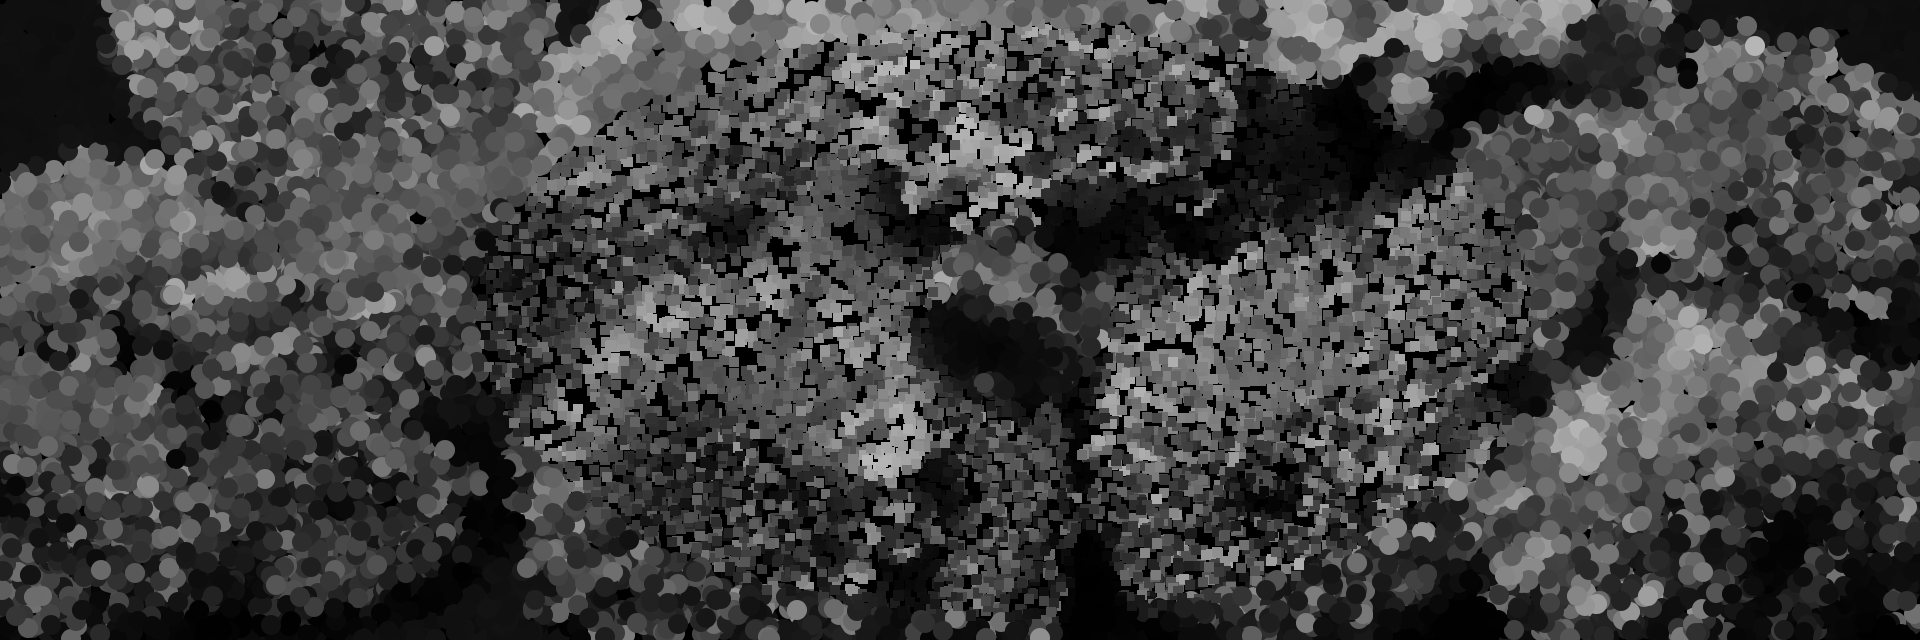
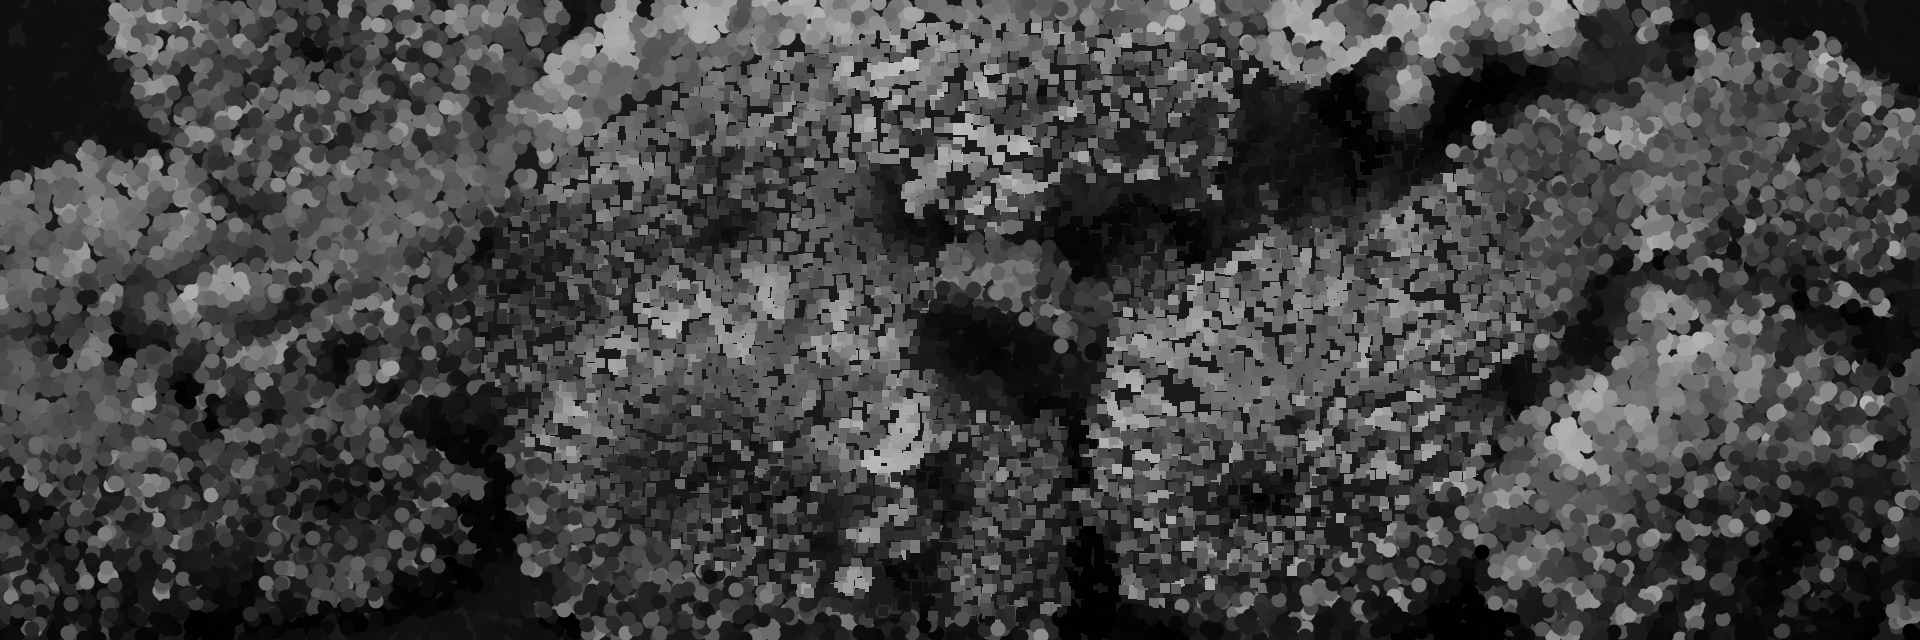
Updates

diff --git a/sketch.js b/sketch.js
@@ -3,9 +3,9 @@ let maskImg=null;
 let renderCounter=0;
 
 // change these three lines as appropiate
-let sourceFile = "input_1.jpg";
-let maskFile   = "mask_1.png";
-let outputFile = "output_1.png";
+let sourceFile = "input_3.jpg";
+let maskFile   = "mask_3.png";
+let outputFile = "output_3.png";
 
 function preload() {
   sourceImg = loadImage(sourceFile);
@@ -18,7 +18,7 @@ function setup () {
 
   imageMode(CENTER);
   noStroke();
-  background(0);
+  background(25);
   sourceImg.loadPixels();
   maskImg.loadPixels();
 }
@@ -31,7 +31,7 @@ function draw () {
     let mask = maskImg.get(x, y);
     fill(pix);
     if(mask[0] > 128) {
-      let pointSize = 20;
+      let pointSize = 15;
       ellipse(x, y, pointSize, pointSize);
     }
     else {

diff --git a/README.md b/README.md
@@ -1,3 +1,4 @@
 ## Creative Coding 2: Custom Pixel
 
-The images above are photos of Wellington CBD algorithmically processed with a lightly modified version of the [p5.js Pointillism example](https://p5js.org/examples/image-pointillism.html). The masks for each photo highlight various objects. Replace this text with your own which explains the source of your photos, masking, and applied algorithm.
+The images are from two different photography projects but both include floral images, I decided to use because I know they were high quality and some of my favourite images and my favourite subject to photography. The first one is from a project based on the process of relationships. The other two are from a project that I did that had flowers as symbols of the 7 stages of grief. 
+I experimented a little bit with the mask and the different sizes and background colour to familarise myself with the code. 
